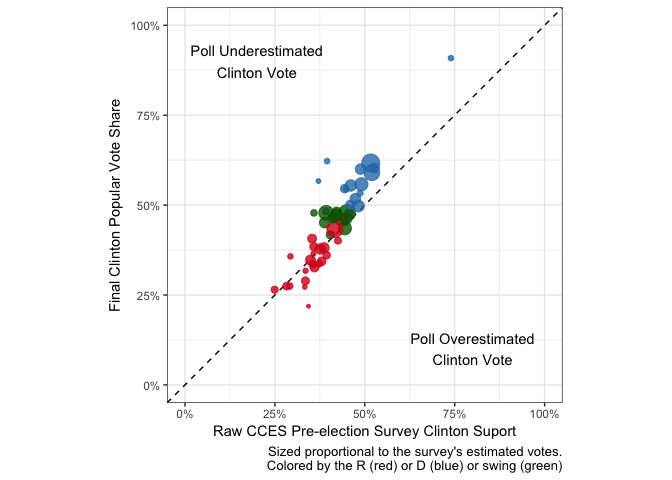
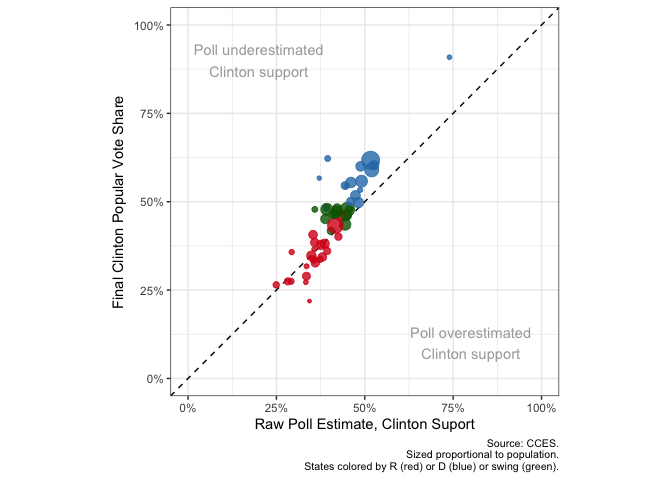
change cosmetics of scatter, add turnout validation

diff --git a/README.md b/README.md
@@ -148,15 +148,15 @@ Setup plot...
 As points
 
 ``` r
-gg0 + aes(x = cces_pct_hrc_voters, size = cces_n_voters) +
-  xlab("Turnout-adjusted CCES Pre-election Survey Clinton Support")
+ggpres + aes(x = cces_pct_hrc_voters, size = vap) +
+  xlab("Turnout-adjusted Poll Estimate, Clinton Support")
 ```
 
 ![](README_files/figure-markdown_github-ascii_identifiers/unnamed-chunk-4-1.png)
 
 ``` r
-gg0 + aes(x = cces_pct_hrc_raw, size = cces_n_raw) +
-  xlab("Raw CCES Pre-election Survey Clinton Suport")
+ggpres + aes(x = cces_pct_hrc_raw, size = vap) +
+  xlab("Raw Poll Estimate, Clinton Suport")
 ```
 
 ![](README_files/figure-markdown_github-ascii_identifiers/unnamed-chunk-5-1.png)
